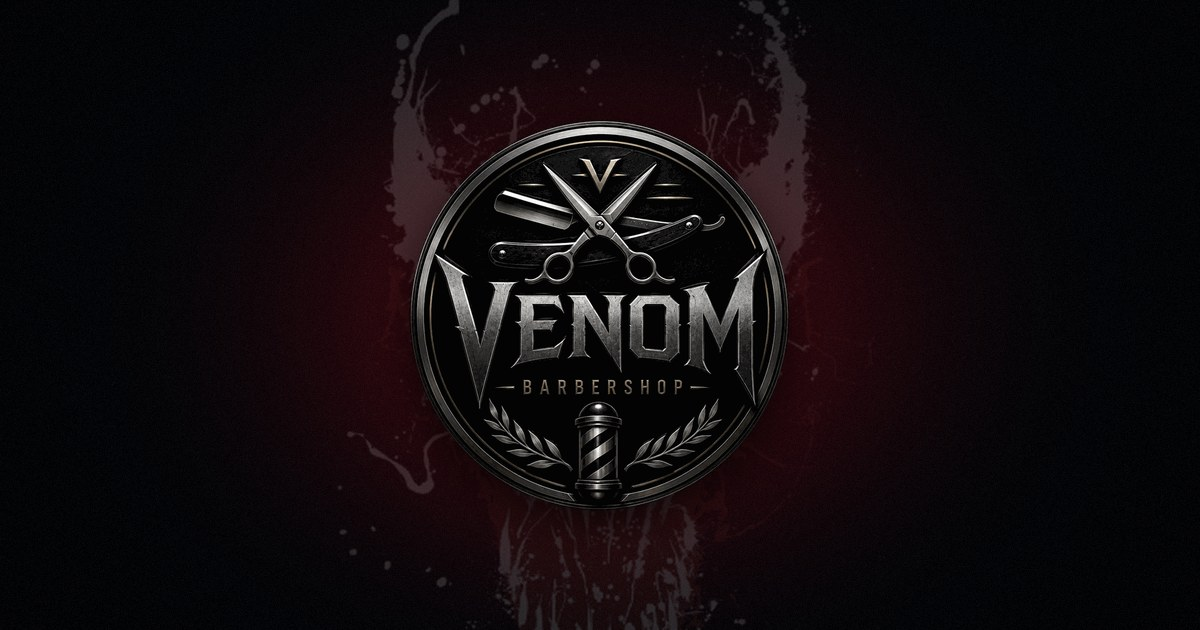
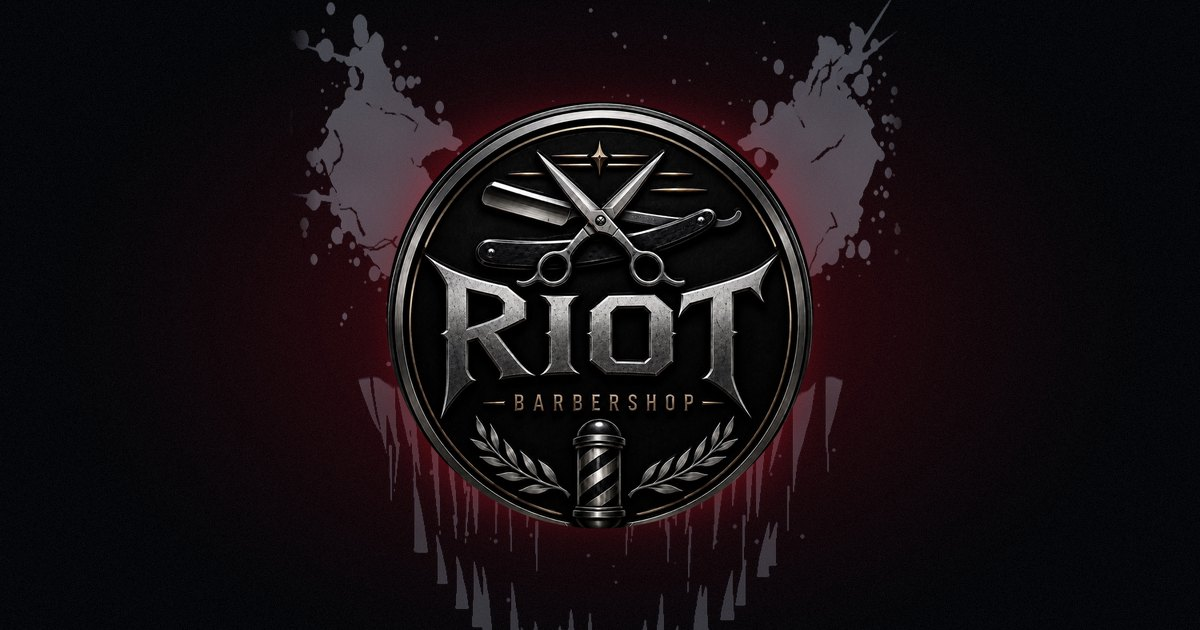
Átnevezés: VENOM → RIOT Barbershop
Új logó és ikonok, saját Riot-arc a hero mögött vörös felvillanással,
„Hol találsz?" blokk a foglalásnál. A filmes Venom-plakát és a VENOM
felirat-kép törölve.

Changed region(s): [[0.2467, 0.0, 0.7708, 1.0], [0.4317, 0.0905, 0.4625, 0.1206], [0.37, 0.0, 0.4008, 0.0302]]

diff --git a/index.html b/index.html
@@ -3,13 +3,14 @@
 <head>
 <meta charset="UTF-8">
 <meta name="viewport" content="width=device-width, initial-scale=1.0, viewport-fit=cover">
-<title>VENOM Barbershop — Férfi fodrászat, Szeged</title>
-<meta name="description" content="VENOM Barbershop — férfi fodrászat Szegeden. Éles fade-ek, precíz szakállformázás, klasszikus borotválás. Kizárólag időpontfoglalással.">
+<title>RIOT Barbershop — Férfi fodrászat, Szeged</title>
+<meta name="description" content="RIOT Barbershop — férfi fodrászat Szegeden. Éles fade-ek, precíz szakállformázás, klasszikus borotválás. Kizárólag időpontfoglalással.">
 <meta name="theme-color" content="#050609">
 <link rel="icon" type="image/png" sizes="32x32" href="images/favicon-32.png">
+<link rel="icon" type="image/png" sizes="192x192" href="images/favicon-192.png">
 <link rel="apple-touch-icon" href="images/apple-touch-icon.png">
 <meta property="og:type" content="website">
-<meta property="og:title" content="VENOM Barbershop — Férfi fodrászat, Szeged">
+<meta property="og:title" content="RIOT Barbershop — Férfi fodrászat, Szeged">
 <meta property="og:description" content="Éles fade-ek, precíz szakállmunka, klasszikus borotválás. Kizárólag időpontfoglalással.">
 <meta property="og:image" content="images/og.jpg">
 <!-- Élesítéskor az og:image legyen abszolút URL (pl. https://domain.hu/images/og.jpg) -->
@@ -168,12 +169,24 @@
     -webkit-mask-image:linear-gradient(180deg,#000 78%,transparent 100%);
     mask-image:linear-gradient(180deg,#000 78%,transparent 100%); /* alul lágyan elhal, nem ér a szövegbe */
   } /* nyugalmi állapot: halványan (0.28) mindig ott van, sosem tűnik el */
-  @keyframes venomFlash{ /* BETÖLTÉSKOR és VISSZATÉRÉSKOR: a nyugalmi 0.28-ról villan fel, majd vissza */
-    0%{opacity:.28;transform:translate(-50%,-50%) scale(1);}
-    28%{opacity:.9;transform:translate(-50%,-50%) scale(1.03);}
+  /* BETÖLTÉSKOR és VISSZATÉRÉSKOR: vörös izzás lobban fel az arc mögött; az arc is felvillan, mint a régi Venomnál */
+  .hero>.face-flare{
+    position:absolute;left:50%;top:40%;transform:translate(-50%,-50%);
+    width:min(760px,110vw);height:min(760px,110vw);z-index:1;pointer-events:none;opacity:0;
+    background:radial-gradient(circle, rgba(240,26,42,.82) 0%, rgba(196,18,34,.48) 30%, rgba(145,12,26,.18) 52%, transparent 70%);
+  }
+  @keyframes riotFlare{
+    0%  {opacity:0;transform:translate(-50%,-50%) scale(.88);}
+    12% {opacity:1;transform:translate(-50%,-50%) scale(1.04);}
+    100%{opacity:0;transform:translate(-50%,-50%) scale(1.12);}
+  }
+  @keyframes venomFlash{ /* az arc úgy villan, mint az eredeti Venomnál: .28 → .9 (enyhe nagyítással) → .28 */
+    0%  {opacity:.28;transform:translate(-50%,-50%) scale(1);}
+    14% {opacity:.9; transform:translate(-50%,-50%) scale(1.03);}
     100%{opacity:.28;transform:translate(-50%,-50%) scale(1);}
   }
-  .hero .venom-face.flash{animation:venomFlash 2.4s ease-in-out both;}
+  .hero>.face-flare.flash{animation:riotFlare 2.6s cubic-bezier(.2,.7,.3,1) both;}
+  .hero .venom-face.flash{animation:venomFlash 2.6s cubic-bezier(.2,.7,.3,1) both;}
   .hero > *{position:relative;z-index:2;}
   .emblem{width:clamp(190px,32vw,290px);height:clamp(190px,32vw,290px);margin:0 auto 16px;position:relative;}
   .emblem img{width:100%;height:100%;object-fit:contain;filter:drop-shadow(0 0 34px rgba(168,18,34,.48)) drop-shadow(0 0 12px rgba(225,20,35,.12));}
@@ -199,8 +212,8 @@
     background-size:100% 200%;filter:drop-shadow(0 2px 1px rgba(0,0,0,.6));
   }
   h1.title::after{ /* fény-csík */
-    content:"VENOM";
-    content:"VENOM" / ""; /* üres alternatív szöveg: a felolvasó nem mondja duplán a címet */
+    content:"RIOT";
+    content:"RIOT" / ""; /* üres alternatív szöveg: a felolvasó nem mondja duplán a címet */
     position:absolute;inset:0;
     background:linear-gradient(105deg,transparent 38%,rgba(255,220,222,.9) 50%,transparent 62%);
     -webkit-background-clip:text;background-clip:text;-webkit-text-fill-color:transparent;color:transparent;
@@ -375,6 +388,11 @@
       linear-gradient(170deg,var(--panel-2),var(--void));position:relative;
   }
   .book-box p{color:var(--text-dim);max-width:44ch;margin:0 auto 28px;}
+  .hol{margin-top:38px;padding-top:30px;border-top:1px solid var(--line);}
+  .book-box .hol-cim{display:flex;align-items:center;justify-content:center;gap:8px;margin-bottom:18px;
+    font-family:'Barlow Condensed',sans-serif;font-size:22px;font-weight:600;letter-spacing:.04em;color:var(--text);}
+  .hol-cim svg{color:var(--venom);flex:0 0 auto;}
+  .book-box .hol-meg{font-size:14px;margin:14px auto 0;}
 
   /* ---------- Lábléc ---------- */
   footer{background:#040507;border-top:1px solid var(--line);padding:64px 0 34px;}
@@ -389,6 +407,7 @@
   .nyitva td{padding:4px 0;color:var(--text-dim);}
   .nyitva td:last-child{text-align:right;color:var(--text);}
   .copy{text-align:center;font-size:12.5px;color:rgba(195,201,210,.72);padding-top:22px;border-top:1px solid var(--line);}
+  .jogi{text-align:center;font-size:11.5px;color:var(--text-dim);opacity:.85;margin-top:8px;line-height:1.5;}
 
   /* ---------- Film-grain textúra (mozis hatás) ---------- */
   .grain{
@@ -454,7 +473,7 @@
     .lightbox,.lb-img,.slot .zoom-cue{transition:none;}
     .lb-img{transform:none;}
     .mobile-cta{transition:none;}
-    .hero>.hero-glow,.ticker-track,h1.title::after,.hero .venom-face{animation:none;}
+    .hero>.hero-glow,.ticker-track,h1.title::after,.hero .venom-face,.hero>.face-flare{animation:none;}
     .slot img{transition:none;}
     .card:hover{transform:none;}
     .slot:hover img{transform:none;}
@@ -474,7 +493,7 @@
     <a href="#bemutatkozas">Bemutatkozás</a>
     <a href="#arlista">Árlista</a>
   </nav>
-  <a class="brand" href="#" aria-label="Vissza a tetejére — VENOM Barbershop">
+  <a class="brand" href="#" aria-label="Vissza a tetejére — RIOT Barbershop">
     <img src="images/logo.png" alt="" width="640" height="640">
   </a>
   <nav class="topnav nav-r" aria-label="Menü (jobb)">
@@ -496,12 +515,13 @@
 <!-- ================= HERO ================= -->
 <section class="hero">
   <div class="hero-glow" aria-hidden="true"></div>
-  <img class="venom-face" src="images/venom-poster.png" alt="" aria-hidden="true" width="390" height="428">
+  <div class="face-flare" aria-hidden="true"></div>
+  <img class="venom-face" src="images/riot-face.png" alt="" aria-hidden="true" width="390" height="462">
   <div class="emblem">
-    <img src="images/logo.png" alt="VENOM Barbershop embléma" width="640" height="640">
+    <img src="images/logo.png" alt="RIOT Barbershop embléma" width="640" height="640">
   </div>
   <div class="kicker" lang="en">We are</div>
-  <h1 class="title" data-text="VENOM">VENOM</h1>
+  <h1 class="title" data-text="RIOT">RIOT</h1>
   <div class="subbrand">Barbershop · Szeged</div>
   <p class="hero-sub"><b>Ahol a részletek alkotják a stílust.</b></p>
   <div class="ctas">
@@ -514,7 +534,7 @@
 <div class="ticker" aria-hidden="true">
   <div class="ticker-track">
     <div class="ticker-seq">
-      <span>Hajvágás</span><span>Fade</span><span>Szakállformázás</span><span>Borotválás</span><span>Gyerek hajvágás</span><span>Venom Barbershop</span>
+      <span>Hajvágás</span><span>Fade</span><span>Szakállformázás</span><span>Borotválás</span><span>Gyerek hajvágás</span><span>Riot Barbershop</span>
     </div>
   </div>
 </div>
@@ -566,7 +586,7 @@
       <div class="eyebrow">Bemutatkozás</div>
       <h2>A borbély</h2>
     </div>
-    <p class="intro rev">Szántai Szabolcs vagyok, a Venom Barbershop mestere. 2022 óta állok a szék
+    <p class="intro rev">Szántai Szabolcs vagyok, a Riot Barbershop mestere. 2022 óta állok a szék
        mögött, és egyetlen cél hajt: hogy magabiztos, rád szabott frizurával lépj ki tőlem.
        A visszafogott klasszikustól a mai fade-ekig minden stílusban otthonosan mozgok,
        a részletekben pedig nem ismerek kompromisszumot. Kizárólag előre foglalt időpontban
@@ -628,8 +648,20 @@
       <div class="eyebrow">Időpontfoglalás</div>
       <h2>Foglalj időpontot</h2>
       <p>Válaszd ki a szolgáltatást és a neked megfelelő szabad időpontot – online, pár kattintással.</p>
-      <!-- Salonic foglalóoldal (VENOM-arculatra szabva), új fülön nyílik -->
+      <!-- Salonic foglalóoldal (RIOT-arculatra szabva), új fülön nyílik -->
       <a class="btn btn-venom" href="https://venom-barbershop.salonic.hu/" target="_blank" rel="noopener">Foglalj időpontot</a>
+      <!-- Hol az üzlet: origin nélküli Google-útvonal → a vendég mostani helyzetéből indul
+           (mobilon a térkép-app nyílik). -->
+      <div class="hol">
+        <div class="eyebrow">Hol találsz?</div>
+        <p class="hol-cim">
+          <svg viewBox="0 0 24 24" width="22" height="22" aria-hidden="true"><path fill="currentColor" d="M12 2a7 7 0 0 0-7 7c0 5.25 7 13 7 13s7-7.75 7-13a7 7 0 0 0-7-7zm0 9.5A2.5 2.5 0 1 1 12 6.5a2.5 2.5 0 0 1 0 5z"/></svg>
+          6721 Szeged, Római krt. 34.
+        </p>
+        <a class="btn btn-ghost" href="https://www.google.com/maps/dir/?api=1&amp;destination=6721%20Szeged%2C%20R%C3%B3mai%20krt.%2034."
+           target="_blank" rel="noopener">Útvonaltervezés</a>
+        <p class="hol-meg">Egy koppintás, és a térkép a mostani helyedtől odavezet.</p>
+      </div>
       <img class="flourish" src="images/motif-flourish.png" alt="" aria-hidden="true" width="298" height="33" loading="lazy">
     </div>
   </div>
@@ -641,7 +673,7 @@
   <div class="wrap">
     <div class="foot-grid">
       <div class="foot foot-brand">
-        <div class="fbrand chrome">VENOM</div>
+        <div class="fbrand chrome">RIOT</div>
         <div class="fbrand-sub">Barbershop · Szeged</div>
       </div>
       <div class="foot">
@@ -664,7 +696,7 @@
         </table>
       </div>
     </div>
-    <p class="copy">© 2026 VENOM Barbershop · Szántai Szabolcs</p>
+    <p class="copy">© 2026 RIOT Barbershop · Szántai Szabolcs</p>
   </div>
 </footer>
 
@@ -723,12 +755,13 @@
      ha teljesen a tetejére görgettél. Scroll-alapú, hogy oda-vissza is megbízhatóan működjön. */
   (function(){
     const face=document.querySelector('.venom-face');
+    const flare=document.querySelector('.face-flare');
     const title=document.querySelector('.hero .title');
     if(!face&&!title) return;
     const reduce=window.matchMedia('(prefers-reduced-motion: reduce)');
     function faceReplay(){
       if(!face||reduce.matches) return;
-      face.classList.remove('flash'); void face.offsetWidth; face.classList.add('flash'); // 0.28-ról villan, nem 0-ról
+      [face,flare].forEach(el=>{ if(!el) return; el.classList.remove('flash'); void el.offsetWidth; el.classList.add('flash'); }); // arc 0.28-ról, izzás 0-ról
     }
     function shine(){
       if(!title||reduce.matches) return;
